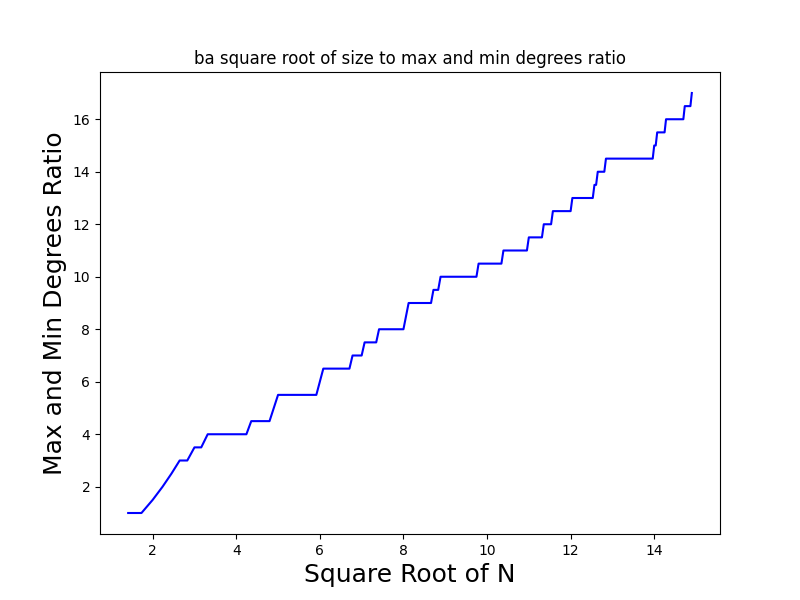
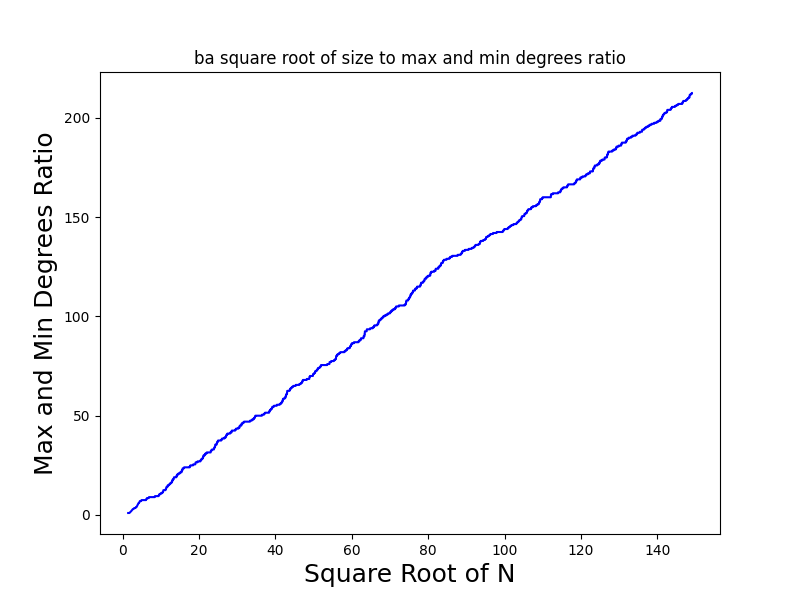
3 13

diff --git a/Networks3/ba.py b/Networks3/ba.py
@@ -165,7 +165,7 @@ def run_ba_model(size: int, kernel_size: int):
 
     diff: int = max_k - min_k
 
-    n: int = 22
+    n: int = 222
 
     ratio: float = max_k / min_k
 
@@ -322,4 +322,4 @@ def create_kernel(kernel_size: int) -> list[Node]:
 
     return list_of_nodes
 
-run_ba_model(222, 2)
+run_ba_model(22222, 2)
